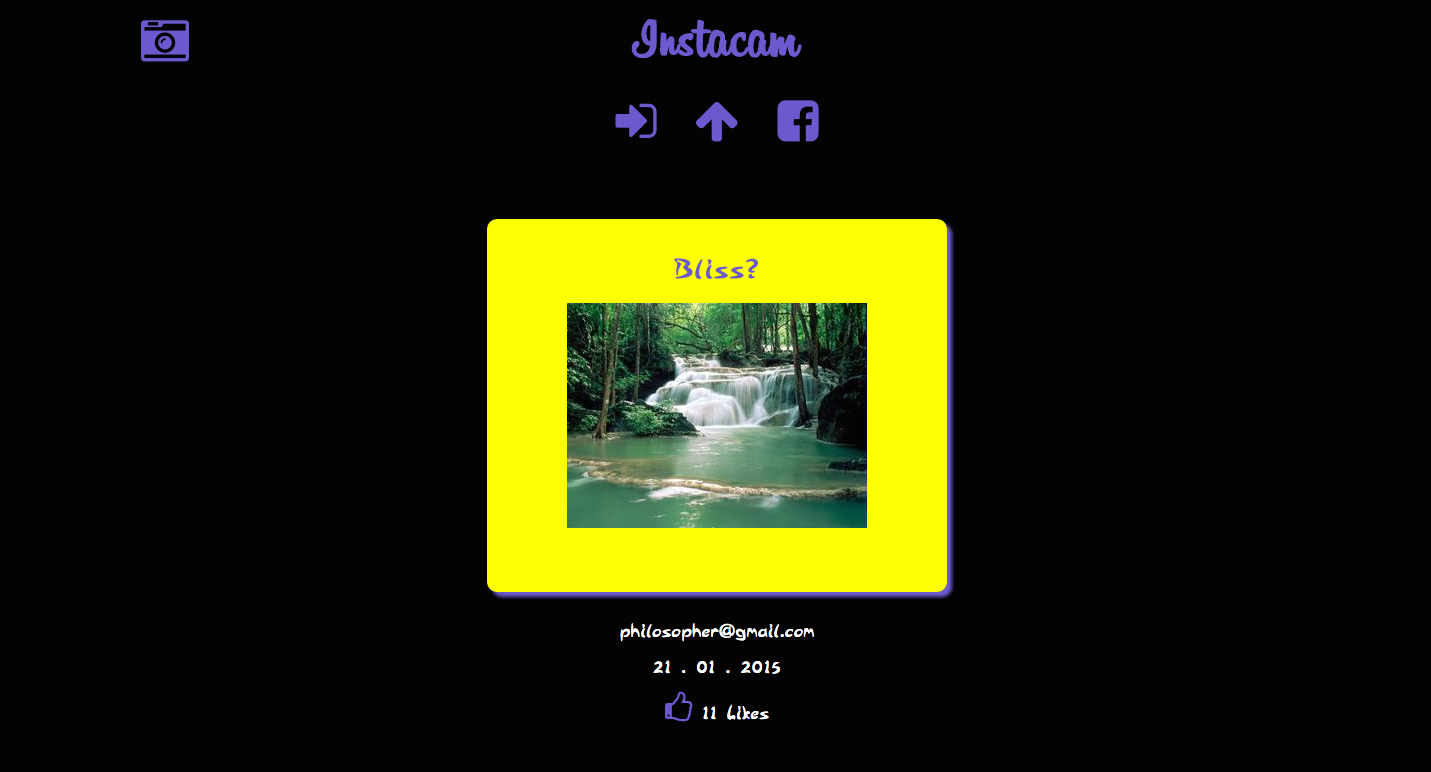
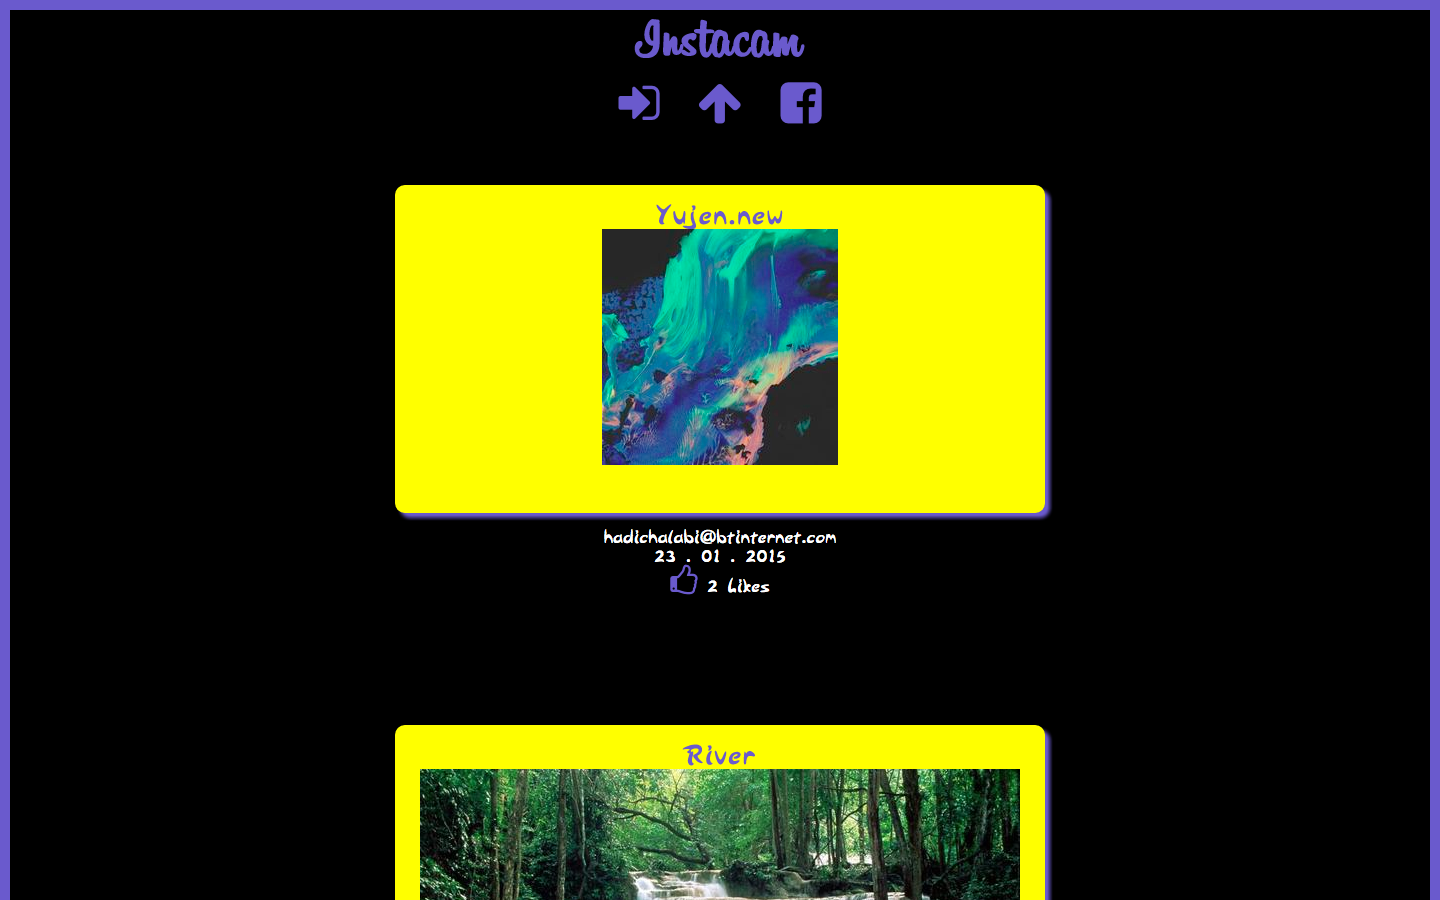
fiddling with css bits

diff --git a/app/assets/stylesheets/application.css.scss b/app/assets/stylesheets/application.css.scss
@@ -1,10 +1,17 @@
 @import "font-awesome";
 
+*{
+  margin: 0%;
+  padding: 0%;
+}
+
 body {
   font-family: "Arabolical";
   text-align: center;
   background-color: black;
   color: white;
+  background-image: url("public/images/medium/dark-camera.png");
+  border: solid #6A5ACD 10px
 }
 
 a:-webkit-any-link {
